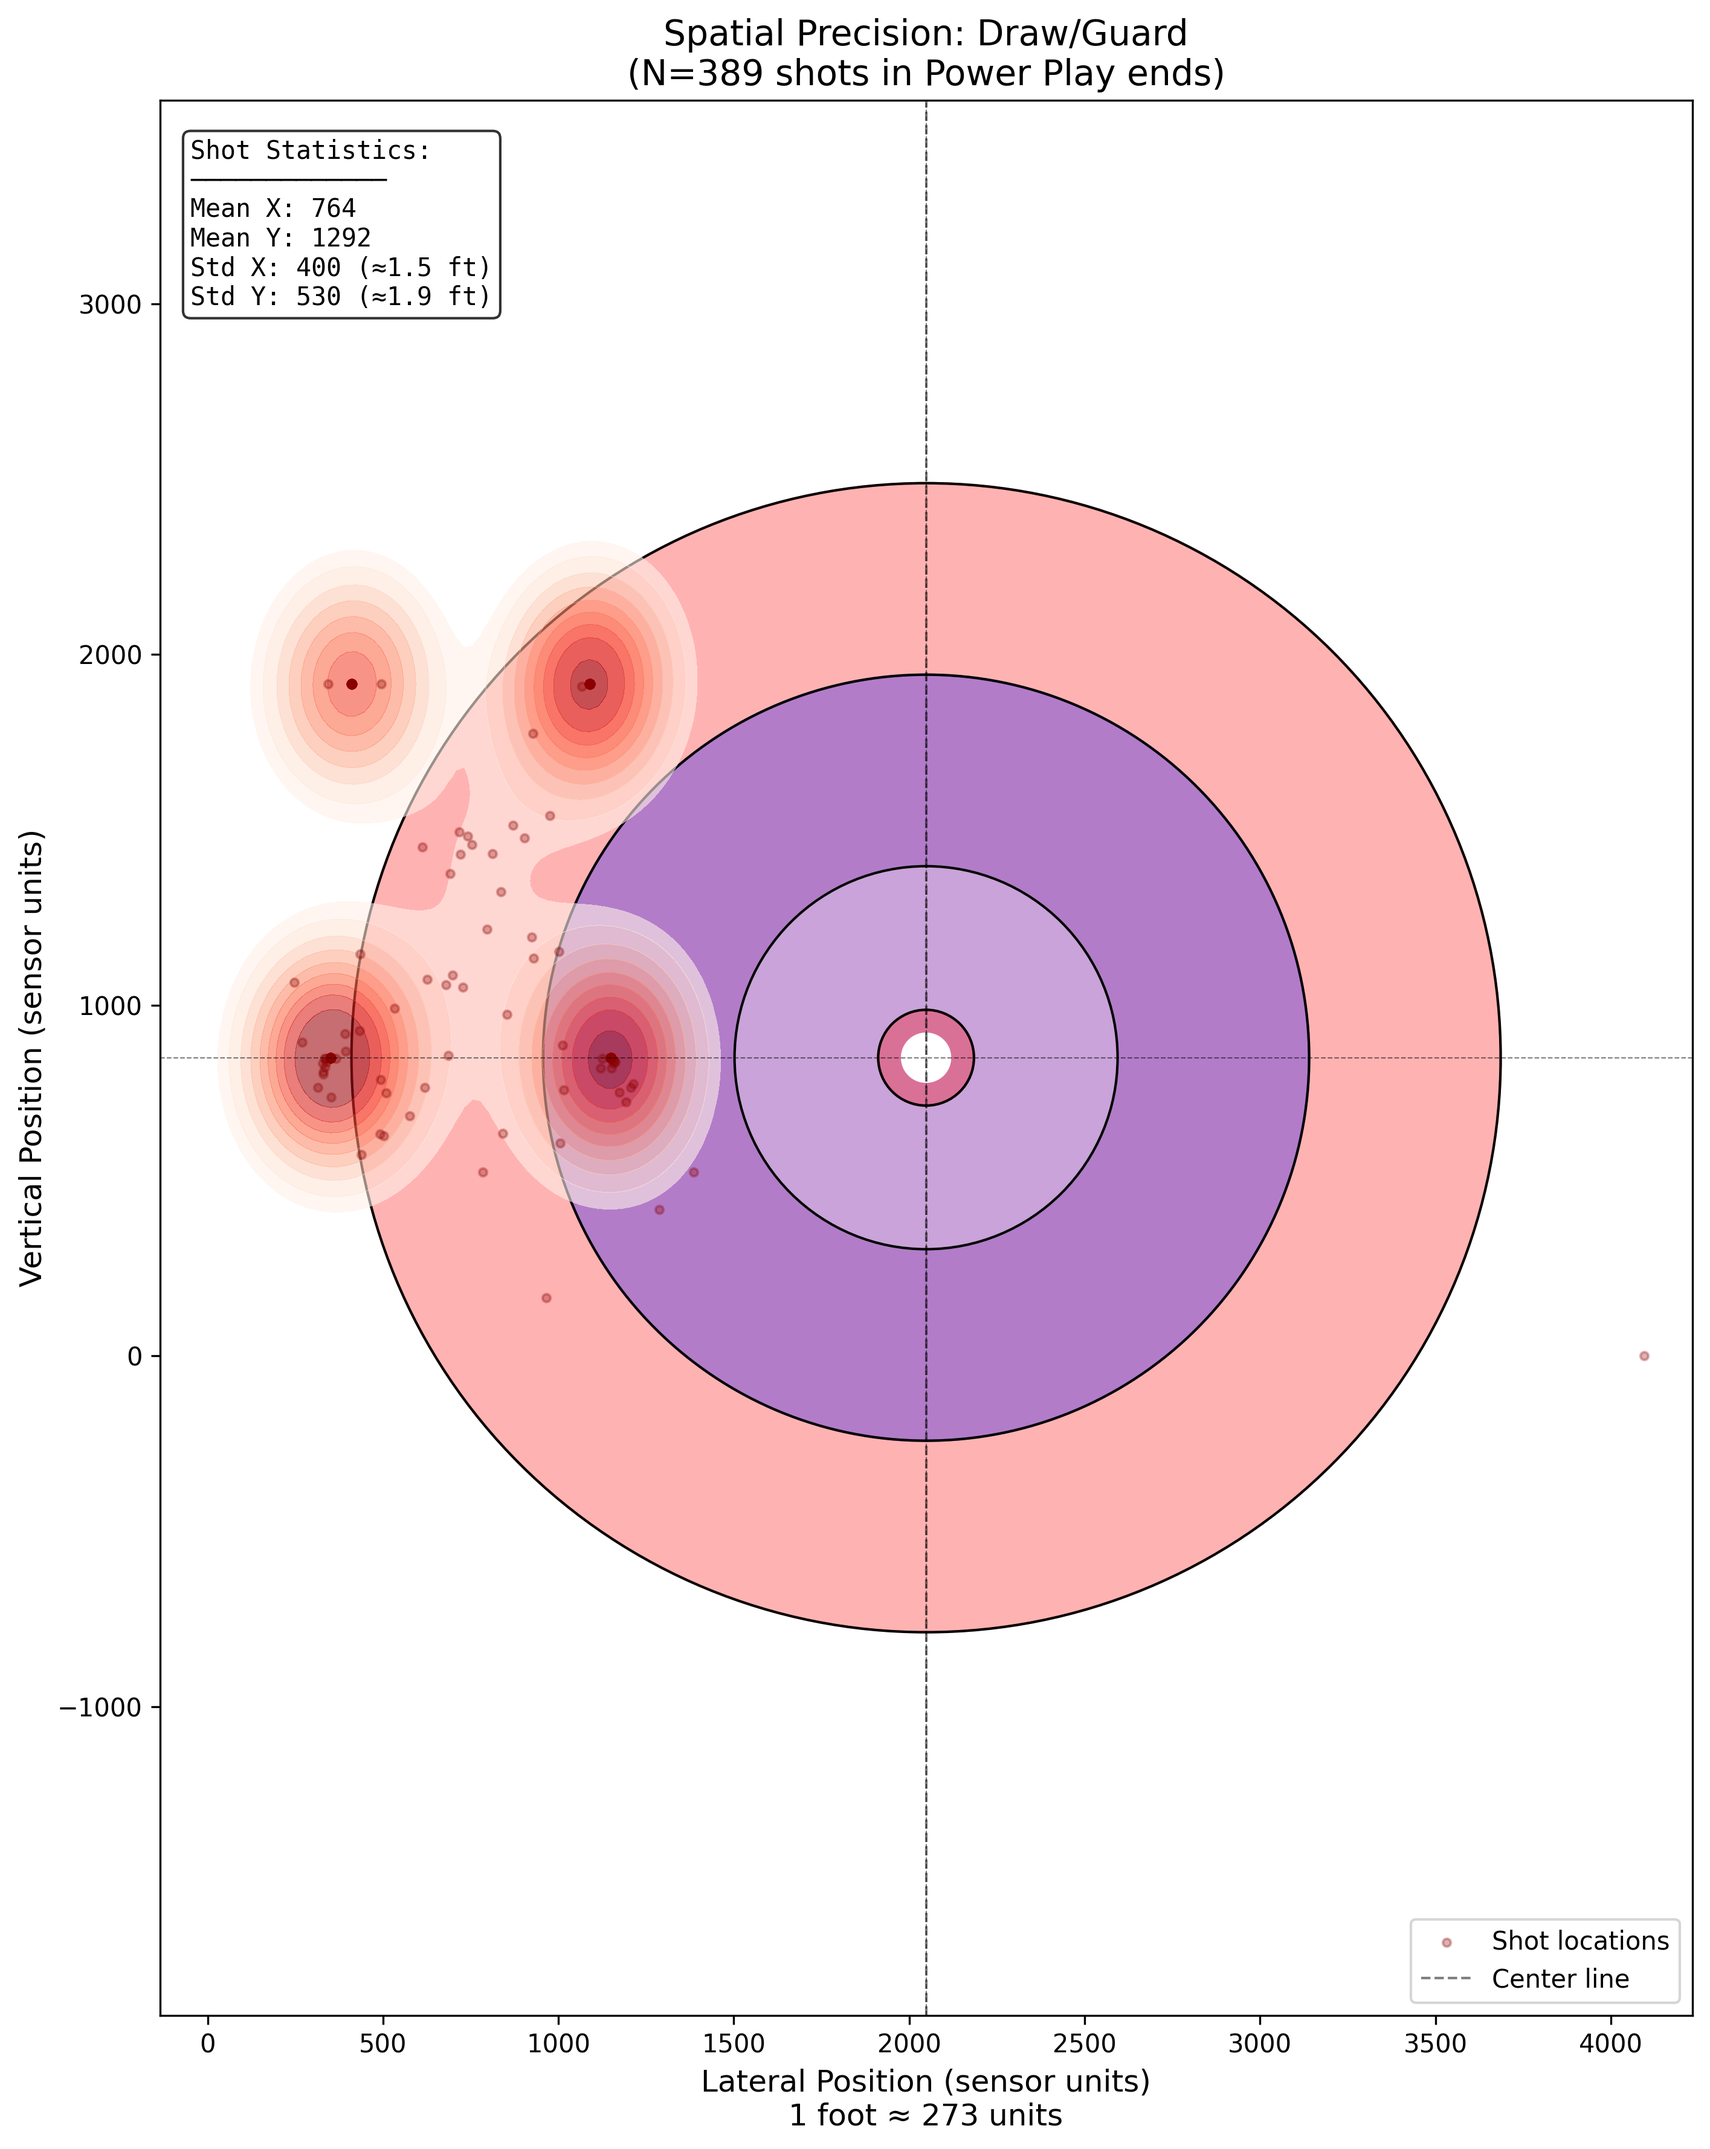
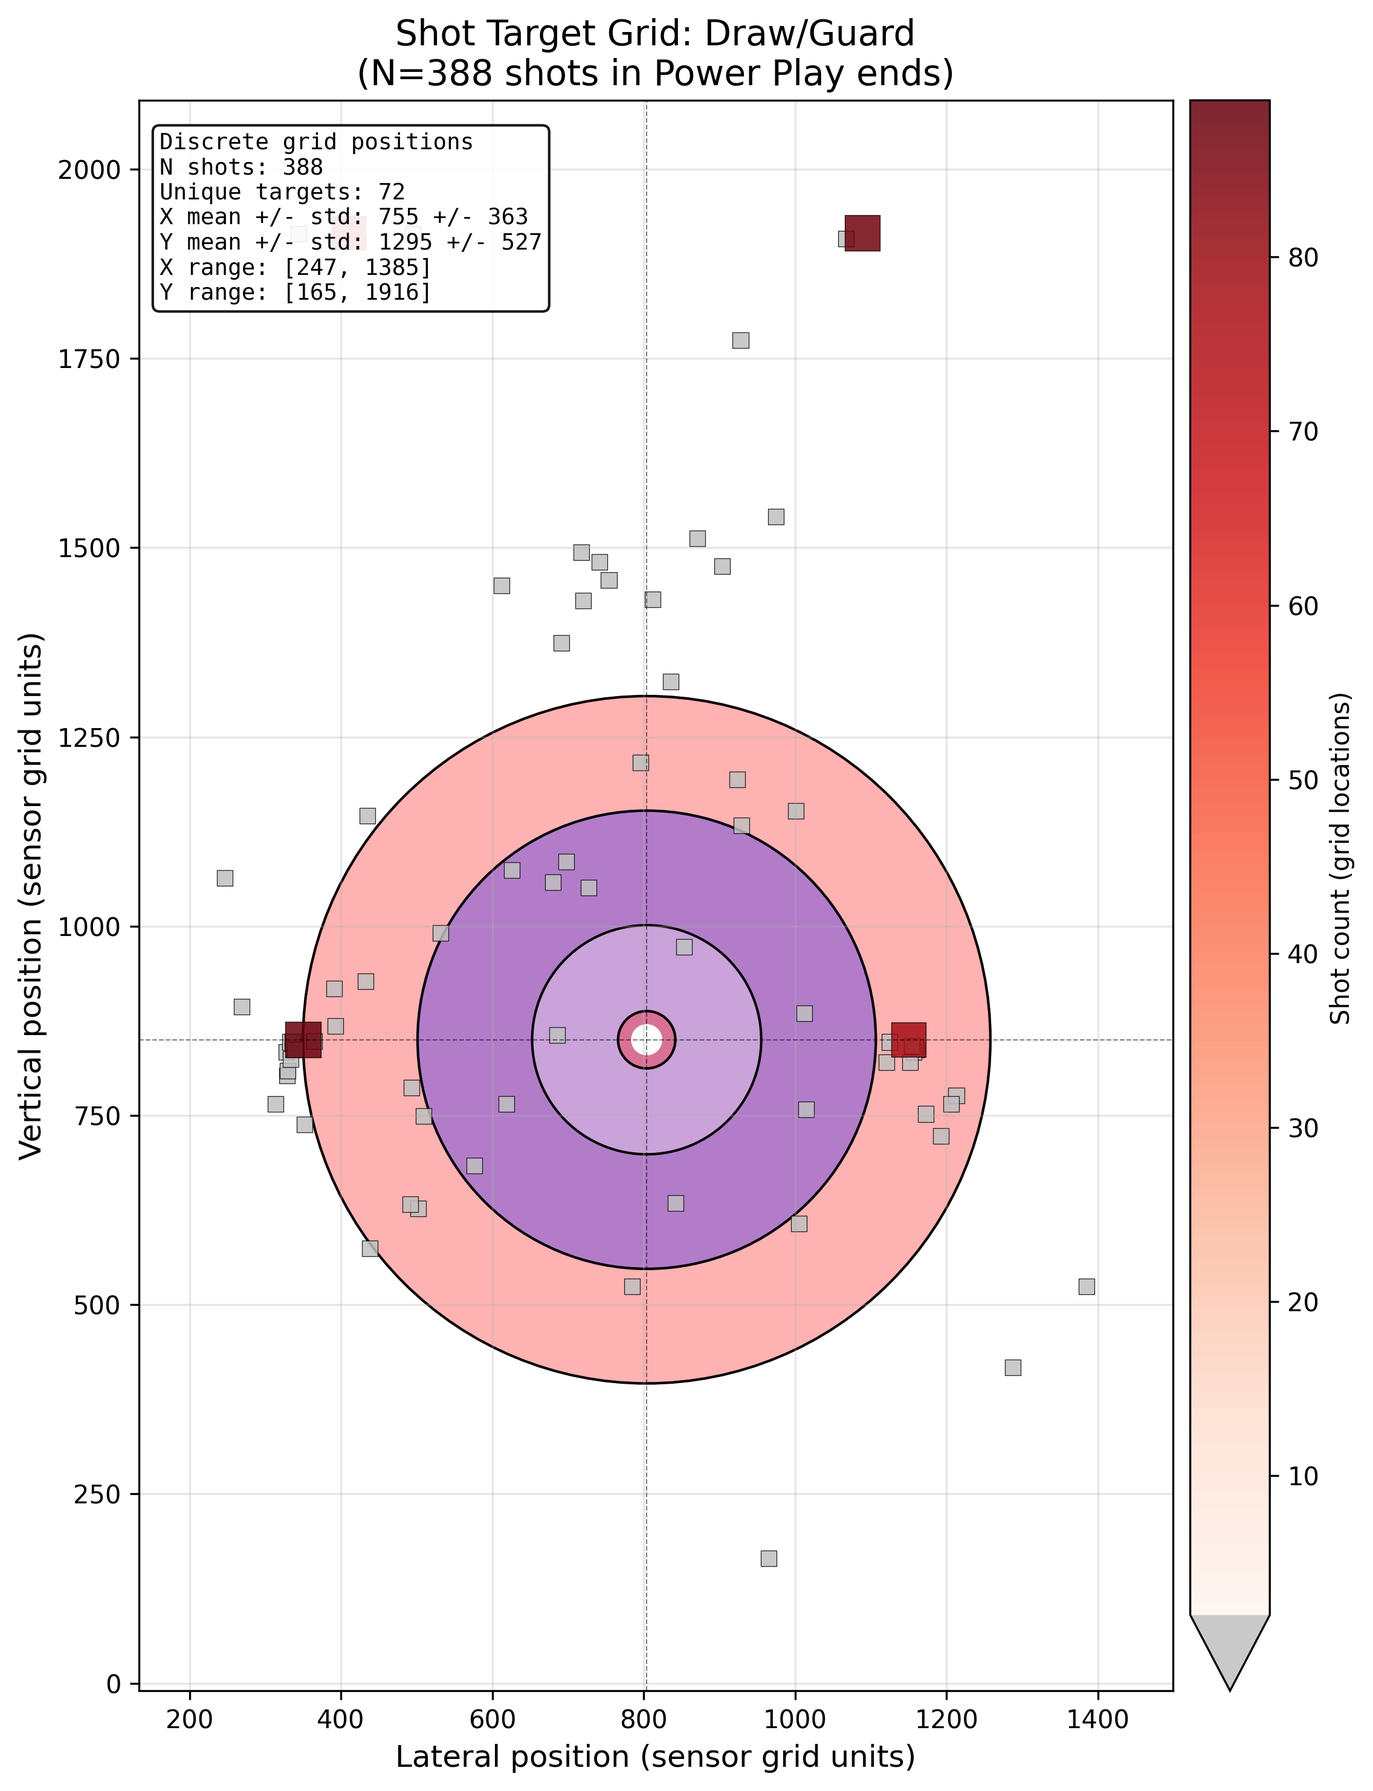
Improve visibility for low-count spatial targets

diff --git a/2026/projects/counter_strategy/src/comprehensive_analysis.py b/2026/projects/counter_strategy/src/comprehensive_analysis.py
@@ -20,6 +20,7 @@ from typing import Dict, List, Tuple, Optional
 
 import matplotlib.pyplot as plt
 import matplotlib.patches as patches
+import matplotlib.colors as mcolors
 import numpy as np
 import pandas as pd
 import seaborn as sns
@@ -807,9 +808,42 @@ def draw_curling_house(ax, center_x=0, center_y=0, unit_scale=1):
     ax.axhline(center_y, color='black', linewidth=0.5, linestyle='--', alpha=0.5)
 
 
+def estimate_house_reference(task_data: pd.DataFrame) -> Tuple[float, float, float]:
+    """
+    Estimate a stable house reference in sensor units.
+
+    The coordinates are discretized, so we anchor the house at the median X
+    and the modal Y (dominant tee-line band). The 12-foot ring radius is
+    estimated from the spread of the modal band in X.
+    """
+    x = task_data["stone_1_x"].dropna().astype(float)
+    y = task_data["stone_1_y"].dropna().astype(float)
+
+    if x.empty or y.empty:
+        return 0.0, 0.0, 50.0
+
+    center_x = float(x.median())
+    y_mode = y.mode()
+    center_y = float(y_mode.iloc[0]) if not y_mode.empty else float(y.median())
+
+    mode_band = task_data[task_data["stone_1_y"] == center_y]
+    if len(mode_band) >= 5:
+        radius = float(np.percentile(np.abs(mode_band["stone_1_x"] - center_x), 90))
+    else:
+        dist = np.sqrt((x - center_x) ** 2 + (y - center_y) ** 2)
+        radius = float(np.percentile(dist, 50)) if len(dist) else 100.0
+
+    if radius < 50:
+        dist = np.sqrt((x - center_x) ** 2 + (y - center_y) ** 2)
+        radius = float(np.percentile(dist, 75)) if len(dist) else 50.0
+
+    unit_scale = radius / 6.0 if radius > 0 else 50.0
+    return center_x, center_y, unit_scale
+
+
 def plot_spatial_with_house(task_name: str = "Draw/Guard", task_ids: List[int] = [0, 1, 3]) -> plt.Figure:
     """
-    Create spatial heatmap with curling house overlay.
+    Create spatial frequency map with curling house overlay.
     Uses multiple task IDs if needed to get sufficient data.
     """
     stones = load_csv("stones")
@@ -832,7 +866,15 @@ def plot_spatial_with_house(task_name: str = "Draw/Guard", task_ids: List[int] =
         print(f"No spatial data for {task_name}")
         return None
 
-    # Get coordinates
+    # Get coordinates and filter outliers (4095/0 values are likely invalid/missing)
+    valid_mask = (
+        (task_data["stone_1_x"] > 0) &
+        (task_data["stone_1_y"] > 0) &
+        (task_data["stone_1_x"] < 4000) &
+        (task_data["stone_1_y"] < 4000)
+    )
+    task_data = task_data[valid_mask]
+
     x = task_data["stone_1_x"].dropna()
     y = task_data["stone_1_y"].dropna()
 
@@ -840,59 +882,68 @@ def plot_spatial_with_house(task_name: str = "Draw/Guard", task_ids: List[int] =
         print(f"Only {len(x)} shots for {task_name}, need at least 10")
         return None
 
-    fig, ax = plt.subplots(figsize=(10, 12))
+    fig, ax = plt.subplots(figsize=(10, 10))
 
-    # The data uses a coordinate system where:
-    # - Values range from 0 to ~4095 (12-bit resolution)
-    # - Center of house is approximately at (2048, some y)
-    # - Standard curling sheet is ~4.75m wide
+    counts = (
+        task_data.groupby(["stone_1_x", "stone_1_y"])
+        .size()
+        .reset_index(name="count")
+        .sort_values("count")
+    )
 
-    # Normalize to approximate feet (house is 12ft diameter)
-    # 4096 units ≈ 15 feet across? Let's estimate
-    x_center = 2048  # Assume center line at 2048
-    y_center = y.median()  # Use median y as approximate button location
+    x_center, y_center, unit_scale = estimate_house_reference(task_data)
+    draw_curling_house(ax, x_center, y_center, unit_scale=unit_scale)
 
-    # Scale factor: if 4096 = ~15 feet, then 1 foot = ~273 units
-    scale = 273
+    sizes = 20 + 180 * np.sqrt(counts["count"] / counts["count"].max())
+    cmap = plt.cm.Reds.copy()
+    min_count = int(counts["count"].min())
+    vmin = 2 if min_count <= 1 else min_count
+    if min_count < vmin:
+        cmap.set_under("#c0c0c0")
+    sc = ax.scatter(
+        counts["stone_1_x"],
+        counts["stone_1_y"],
+        s=sizes,
+        c=counts["count"],
+        cmap=cmap,
+        vmin=vmin,
+        alpha=0.85,
+        edgecolor="black",
+        linewidth=0.3,
+        marker="s"
+    )
+    cbar = fig.colorbar(sc, ax=ax, pad=0.01, extend="min" if min_count < vmin else "neither")
+    cbar.set_label("Shot count (grid locations)", fontsize=10)
 
-    # Draw house centered at estimated button
-    draw_curling_house(ax, x_center, y_center, unit_scale=scale)
+    x_min, x_max = x.min(), x.max()
+    y_min, y_max = y.min(), y.max()
+    x_pad = max(20, (x_max - x_min) * 0.1)
+    y_pad = max(20, (y_max - y_min) * 0.1)
+    ax.set_xlim(x_min - x_pad, x_max + x_pad)
+    ax.set_ylim(y_min - y_pad, y_max + y_pad)
 
-    # KDE plot
-    try:
-        sns.kdeplot(x=x, y=y, fill=True, cmap="Reds", alpha=0.6,
-                   levels=10, thresh=0.1, ax=ax)
-    except Exception as e:
-        print(f"KDE failed: {e}")
-        ax.scatter(x, y, alpha=0.5, color='red', s=20)
+    ax.set_xlabel("Lateral position (sensor grid units)", fontsize=12)
+    ax.set_ylabel("Vertical position (sensor grid units)", fontsize=12)
+    ax.set_title(
+        f"Shot Target Grid: {task_name}\n(N={len(x)} shots in Power Play ends)",
+        fontsize=14
+    )
 
-    # Add scatter points
-    ax.scatter(x, y, alpha=0.3, color='darkred', s=10, label='Shot locations')
-
-    # Add reference lines
-    ax.axvline(x_center, color='black', linewidth=1, linestyle='--', alpha=0.5, label='Center line')
-
-    # Set axis limits to focus on house area
-    ax.set_xlim(x_center - 8*scale, x_center + 8*scale)
-    ax.set_ylim(y_center - 10*scale, y_center + 10*scale)
-
-    ax.set_xlabel("Lateral Position (sensor units)\n1 foot ≈ 273 units", fontsize=12)
-    ax.set_ylabel("Vertical Position (sensor units)", fontsize=12)
-    ax.set_title(f"Spatial Precision: {task_name}\n(N={len(x)} shots in Power Play ends)", fontsize=14)
-
-    # Add stats box
-    stats_text = (f"Shot Statistics:\n"
-                  f"─────────────\n"
-                  f"Mean X: {x.mean():.0f}\n"
-                  f"Mean Y: {y.mean():.0f}\n"
-                  f"Std X: {x.std():.0f} (≈{x.std()/scale:.1f} ft)\n"
-                  f"Std Y: {y.std():.0f} (≈{y.std()/scale:.1f} ft)")
-    ax.text(0.02, 0.98, stats_text, transform=ax.transAxes, fontsize=10,
-            verticalalignment='top', bbox=dict(boxstyle='round', facecolor='white', alpha=0.8),
+    stats_text = "\n".join([
+        "Discrete grid positions",
+        f"N shots: {len(x)}",
+        f"Unique targets: {len(counts)}",
+        f"X mean +/- std: {x.mean():.0f} +/- {x.std():.0f}",
+        f"Y mean +/- std: {y.mean():.0f} +/- {y.std():.0f}",
+        f"X range: [{x_min:.0f}, {x_max:.0f}]",
+        f"Y range: [{y_min:.0f}, {y_max:.0f}]"
+    ])
+    ax.text(0.02, 0.98, stats_text, transform=ax.transAxes, fontsize=9,
+            verticalalignment='top', bbox=dict(boxstyle='round', facecolor='white', alpha=0.9),
             fontfamily='monospace')
 
     ax.set_aspect('equal')
-    ax.legend(loc='lower right')
+    ax.grid(True, alpha=0.3)
 
     plt.tight_layout()
     return fig
@@ -913,48 +964,109 @@ def plot_spatial_by_quality() -> plt.Figure:
     first_shots = stones.groupby(["CompetitionID", "SessionID", "GameID", "EndID"]).first().reset_index()
     task_data = first_shots.merge(pp_ends, on=["CompetitionID", "SessionID", "GameID", "EndID"])
 
+    # Filter outliers (4095/0 values are likely invalid/missing)
+    valid_mask = (
+        (task_data["stone_1_x"] > 0) &
+        (task_data["stone_1_y"] > 0) &
+        (task_data["stone_1_x"] < 4000) &
+        (task_data["stone_1_y"] < 4000)
+    )
+    task_data = task_data[valid_mask]
+
     # Split by quality
     high_quality = task_data[task_data["Points"] >= 3]
     low_quality = task_data[task_data["Points"] <= 2]
 
-    fig, axes = plt.subplots(1, 2, figsize=(14, 8))
+    fig, axes = plt.subplots(1, 2, figsize=(14, 7))
 
-    x_center = 2048
-    scale = 273
+    all_x = task_data["stone_1_x"].dropna()
+    all_y = task_data["stone_1_y"].dropna()
+    x_center, y_center, unit_scale = estimate_house_reference(task_data)
 
-    for ax, data, title, color in [
-        (axes[0], high_quality, "High Quality (Rating 3-4)", "green"),
-        (axes[1], low_quality, "Low Quality (Rating 0-2)", "red")
+    x_min, x_max = all_x.min(), all_x.max()
+    y_min, y_max = all_y.min(), all_y.max()
+    x_pad = max(20, (x_max - x_min) * 0.1)
+    y_pad = max(20, (y_max - y_min) * 0.1)
+
+    counts_high = (
+        high_quality.groupby(["stone_1_x", "stone_1_y"])
+        .size()
+        .reset_index(name="count")
+    )
+    counts_low = (
+        low_quality.groupby(["stone_1_x", "stone_1_y"])
+        .size()
+        .reset_index(name="count")
+    )
+    if len(high_quality) > 0:
+        counts_high["share"] = counts_high["count"] / len(high_quality)
+    else:
+        counts_high["share"] = 0.0
+    if len(low_quality) > 0:
+        counts_low["share"] = counts_low["count"] / len(low_quality)
+    else:
+        counts_low["share"] = 0.0
+
+    max_share = max(
+        counts_high["share"].max() if len(counts_high) > 0 else 0,
+        counts_low["share"].max() if len(counts_low) > 0 else 0
+    )
+    max_share = max(max_share, 1e-6)
+    cmap = plt.cm.viridis
+    norm = mcolors.Normalize(vmin=0, vmax=max_share)
+
+    for ax, data, title, edge_color in [
+        (axes[0], counts_high, "High Quality (Rating 3-4)", "green"),
+        (axes[1], counts_low, "Low Quality (Rating 0-2)", "red")
     ]:
-        x = data["stone_1_x"].dropna()
-        y = data["stone_1_y"].dropna()
-
-        if len(x) < 5:
-            ax.text(0.5, 0.5, "Insufficient data", transform=ax.transAxes, ha='center')
+        if data.empty:
+            ax.text(0.5, 0.5, "Insufficient data", transform=ax.transAxes, ha='center', fontsize=14)
+            ax.set_title(f"{title}\n(N=0)", fontsize=12)
             continue
 
-        y_center = y.median()
-        draw_curling_house(ax, x_center, y_center, unit_scale=scale)
+        draw_curling_house(ax, x_center, y_center, unit_scale=unit_scale)
 
-        try:
-            sns.kdeplot(x=x, y=y, fill=True, cmap="Reds" if color == "red" else "Greens",
-                       alpha=0.6, levels=8, thresh=0.1, ax=ax)
-        except:
-            pass
+        sizes = 20 + 180 * np.sqrt(data["share"] / max_share)
+        ax.scatter(
+            data["stone_1_x"],
+            data["stone_1_y"],
+            s=sizes,
+            c=data["share"],
+            cmap=cmap,
+            norm=norm,
+            alpha=0.85,
+            edgecolor=edge_color,
+            linewidth=0.6,
+            marker="s"
+        )
 
-        ax.scatter(x, y, alpha=0.4, color=color, s=20, edgecolor='black', linewidth=0.5)
-        ax.axvline(x_center, color='black', linewidth=1, linestyle='--', alpha=0.5)
+        ax.set_xlim(x_min - x_pad, x_max + x_pad)
+        ax.set_ylim(y_min - y_pad, y_max + y_pad)
 
-        ax.set_xlim(x_center - 8*scale, x_center + 8*scale)
-        ax.set_ylim(y_center - 10*scale, y_center + 10*scale)
+        stats_text = "\n".join([
+            f"N shots: {int(data['count'].sum())}",
+            f"Unique targets: {len(data)}",
+            f"Top target share: {data['share'].max():.2%}"
+        ])
+        ax.text(0.02, 0.98, stats_text, transform=ax.transAxes, fontsize=9,
+                verticalalignment='top', bbox=dict(boxstyle='round', facecolor='white', alpha=0.8),
+                fontfamily='monospace')
 
-        ax.set_title(f"{title}\n(N={len(x)})", fontsize=12)
-        ax.set_xlabel("Lateral Position")
-        ax.set_ylabel("Vertical Position")
+        ax.set_title(f"{title}\n(N={int(data['count'].sum())})", fontsize=12)
+        ax.set_xlabel("Lateral position (sensor grid units)")
+        ax.set_ylabel("Vertical position (sensor grid units)")
         ax.set_aspect('equal')
+        ax.grid(True, alpha=0.3)
 
-    fig.suptitle("Shot Placement: High vs Low Execution Quality", fontsize=14, y=1.02)
-    plt.tight_layout()
+    sm = plt.cm.ScalarMappable(cmap=cmap, norm=norm)
+    sm.set_array([])
+    fig.subplots_adjust(right=0.88)
+    cbar_ax = fig.add_axes([0.9, 0.15, 0.02, 0.7])
+    cbar = fig.colorbar(sm, cax=cbar_ax)
+    cbar.set_label("Share of shots (within quality group)", fontsize=10)
+
+    fig.suptitle("Shot Placement: High vs Low Execution Quality", fontsize=14, fontweight='bold')
+    plt.tight_layout(rect=[0, 0, 0.88, 1])
     return fig
 
 
